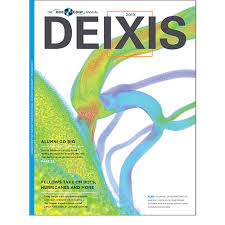
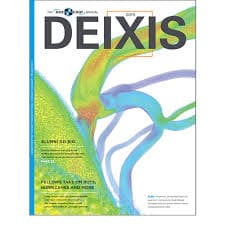
Compressed images and added publications

diff --git a/docs/cv_and_pubs.html b/docs/cv_and_pubs.html
@@ -70,7 +70,7 @@ ul.task-list li input[type="checkbox"] {
 
 </head>
 
-<body class="nav-sidebar docked nav-fixed">
+<body class="nav-sidebar docked nav-fixed slimcontent">
 
 <div id="quarto-search-results"></div>
   <header id="quarto-header" class="headroom fixed-top">
@@ -182,12 +182,16 @@ ul.task-list li input[type="checkbox"] {
    
   <ul>
   <li><a href="#cv" id="toc-cv" class="nav-link active" data-scroll-target="#cv">CV</a></li>
-  <li><a href="#academic-publications" id="toc-academic-publications" class="nav-link" data-scroll-target="#academic-publications">Academic Publications</a></li>
+  <li><a href="#academic-publications" id="toc-academic-publications" class="nav-link" data-scroll-target="#academic-publications">Academic Publications</a>
+  <ul class="collapse">
+  <li><a href="#publications-and-preprints" id="toc-publications-and-preprints" class="nav-link" data-scroll-target="#publications-and-preprints">Publications and Preprints</a></li>
+  <li><a href="#doctoral-dissertation" id="toc-doctoral-dissertation" class="nav-link" data-scroll-target="#doctoral-dissertation">Doctoral Dissertation</a></li>
+  </ul></li>
   </ul>
 <div class="quarto-alternate-formats"><h2>Other Formats</h2><ul><li><a href="cv_and_pubs.pdf"><i class="bi bi-file-pdf"></i>PDF</a></li></ul></div></nav>
     </div>
 <!-- main -->
-<main class="content" id="quarto-document-content">
+<main class="content page-columns page-full" id="quarto-document-content">
 
 <header id="title-block-header" class="quarto-title-block default">
 <div class="quarto-title">
@@ -212,10 +216,58 @@ ul.task-list li input[type="checkbox"] {
 <h1>CV</h1>
 <p>My up-to-date academic CV as of August 2024 can be found <a href="pdfs/CV.pdf">here</a></p>
 </section>
-<section id="academic-publications" class="level1">
+<section id="academic-publications" class="level1 page-columns page-full">
 <h1>Academic Publications</h1>
+<section id="publications-and-preprints" class="level2 page-columns page-full">
+<h2 class="anchored" data-anchor-id="publications-and-preprints">Publications and Preprints</h2>
+<p>Quantum technologies for climate change: Preliminary assessment, <strong>C. E. Berger</strong>, A. Di Paolo, T. Forrest, S. Hadfield, N. Sawaya, M. Stęchły, and K. Thibault, ArXiv pre-print, July 2021</p>
+
+<div class="no-row-height column-margin column-container"><div class="">
+<p><a href="www.arxiv.org/abs/2107.05362">ArXiV</a></p>
+</div></div><p>Complex Langevin and other approaches to the sign problem in quantum many-body physics, <strong>C. E. Berger</strong>, L. Rämmelmuller, A. C. Loheac, F. Ehmann, J. Braun, and J. E. Drut, Physics Reports, Vol 892, ISSN 0370-1573, January 2021</p>
+
+<div class="no-row-height column-margin column-container"><div class="">
+<p><a href="https://doi.org/10.1016/j.physrep.2020.09.002">DOI</a></p>
+<p><a href="https://arxiv.org/abs/1907.10183">ArXiV</a></p>
+</div></div><p>Thermodynamics of rotating quantum matter in the virial expansion, <strong>C. E. Berger</strong>, K.J. Morrell, and J. E. Drut. Physical Review A, 102, 023309, August 2020</p>
+
+<div class="no-row-height column-margin column-container"><div class="">
+<p><a href="https://doi.org/10.1103/PhysRevA.102.023309">DOI</a></p>
+<p><a href="https://arxiv.org/abs/2004.02344">ArXiV</a></p>
+</div></div><p>Third- and fourth-order virial coefficients of harmonically-trapped fermions in a semi-classical approximation, K. J. Morrell, <strong>C. E. Berger</strong>, and J. E. Drut. Physical Review A, 100, 063626, December 2019</p>
+
+<div class="no-row-height column-margin column-container"><div class="">
+<p><a href="https://doi.org/10.1103/PhysRevA.100.063626">DOI</a></p>
+<p><a href="https://arxiv.org/abs/1908.00070">ArXiV</a></p>
+</div></div><p>Interacting bosons at finite angular momentum via complex Langevin, <strong>C. E. Berger</strong> and J. E. Drut, Proceedings of the 36th Annual International Symposium on Lattice Field Theory (2019)</p>
+
+<div class="no-row-height column-margin column-container"><div class="">
+<p><a href="10.22323/1.334.0244">DOI</a></p>
+</div></div><p>Hard-wall and non-uniform lattice Monte Carlo approaches to one-dimensional Fermi gases in a harmonic trap, <strong>C. E. Berger</strong>, J. E. Drut, and W. J. Porter. Computer Physics Communications 208, pp.&nbsp;103-108 (2016)</p>
+
+<div class="no-row-height column-margin column-container"><div class="">
+<p><a href="https://doi.org/10.1016/j.cpc.2016.08.005">DOI</a></p>
+<p><a href="https://arxiv.org/abs/1510.02976">ArXiV</a></p>
+</div></div><p>Harmonically trapped fermions in two dimensions: ground-state energy and contact of SU(2 ) and SU(4 ) systems via nonuniform lattice Monte Carlo, Z-H. Luo, <strong>C. E. Berger</strong>, and J. E. Drut, Phys. Rev.&nbsp;A 93, 033604 - (2016)</p>
+
+<div class="no-row-height column-margin column-container"><div class="">
+<p><a href="https://doi.org/10.1103/PhysRevA.93.033604">DOI</a></p>
+<p><a href="https://arxiv.org/abs/1510.02980">ArXiV</a></p>
+</div></div><p>Energy, contact, and density profiles of one-dimensional fermions in a harmonic trap via nonuniform-lattice Monte Carlo calculations, <strong>C. E. Berger</strong>, E. R. Anderson, and J. E. Drut, Phys. Rev.&nbsp;A 91, 053618 - (2015)</p>
+
+<div class="no-row-height column-margin column-container"><div class="">
+<p><a href="https://doi.org/10.1103/PhysRevA.91.053618">DOI</a></p>
+<p><a href="https://arxiv.org/abs/1410.8103">ArXiV</a></p>
+</div></div></section>
+<section id="doctoral-dissertation" class="level2 page-columns page-full">
+<h2 class="anchored" data-anchor-id="doctoral-dissertation">Doctoral Dissertation</h2>
+<p>Circumventing the sign problem in rotating quantum matter, <strong>C. E. Berger</strong>, Doctoral Dissertation, UNC Chapel Hill. ProQuest - (2020)</p>
 
 
+
+<div class="no-row-height column-margin column-container"><div class="">
+<p><a href="https://www.proquest.com/docview/2420824977?pq-origsite=gscholar&amp;fromopenview=true&amp;sourcetype=Dissertations%20&amp;%20Theses">ProQuest</a></p>
+</div></div></section>
 </section>
 
 </main> <!-- /main -->
